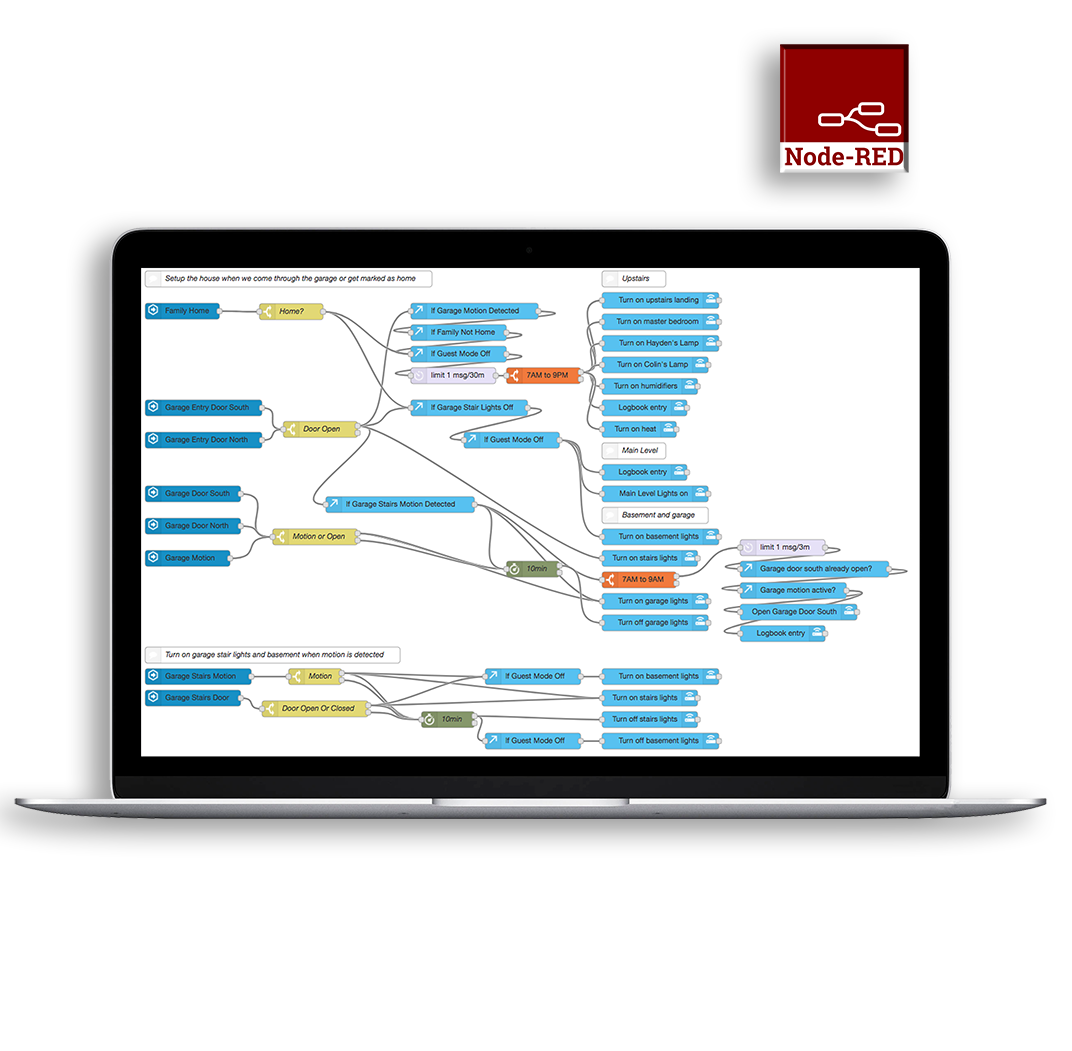
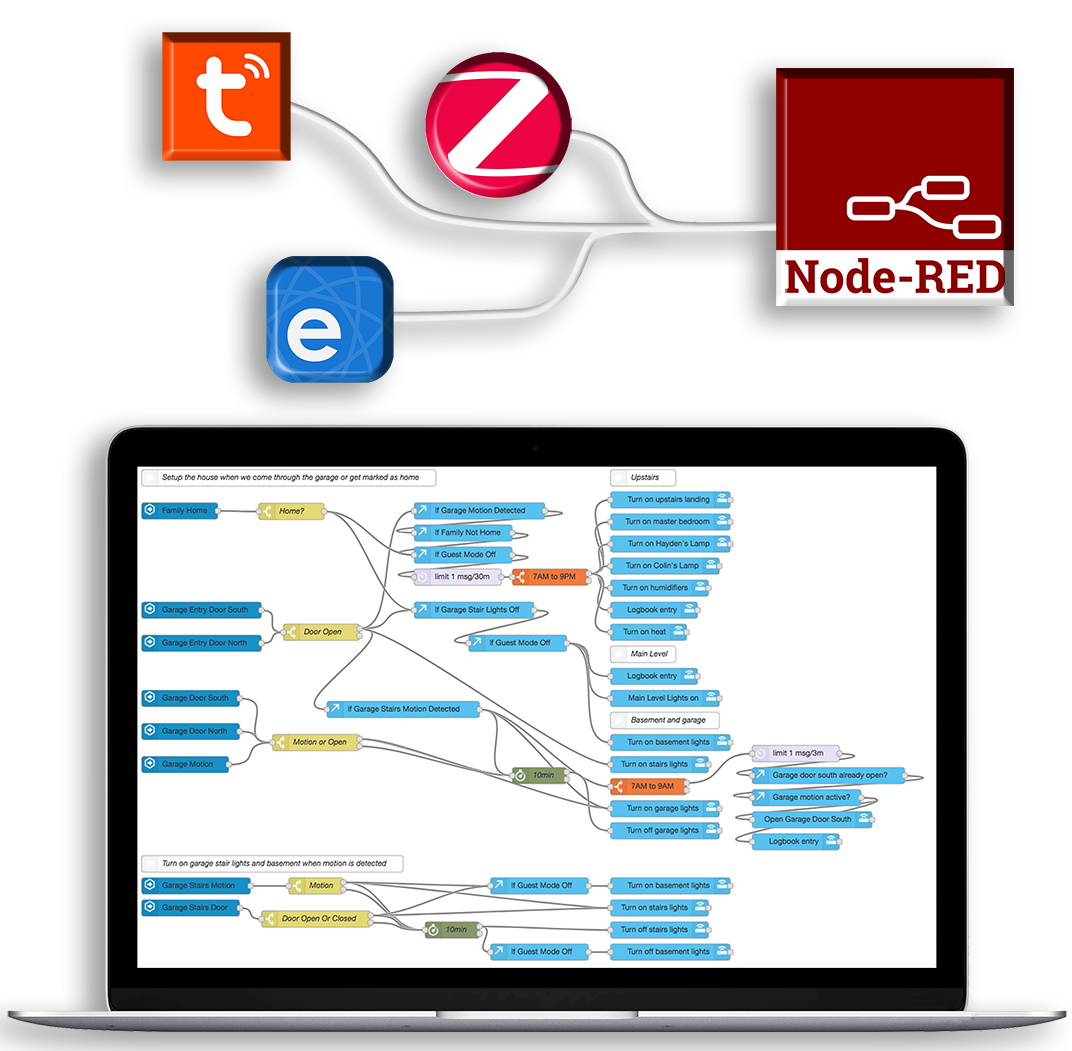
linked new picture and updated nodered cover

diff --git a/index.html b/index.html
@@ -1377,7 +1377,7 @@ fclose($f);
                 <section class=" section4-r ">
                     <div class=" h-100 align-items-end">
                         <div class="col-12 ">
-                            <img src="./resources/img/Tuya-full.png" class=" " style="width: 102%;" alt="Tuya funcions">
+                            <img src="./resources/img/nodered.png" class=" " style="width: 102%;" alt="Tuya funcions">
                         </div>
                     </div>
                 </section>
